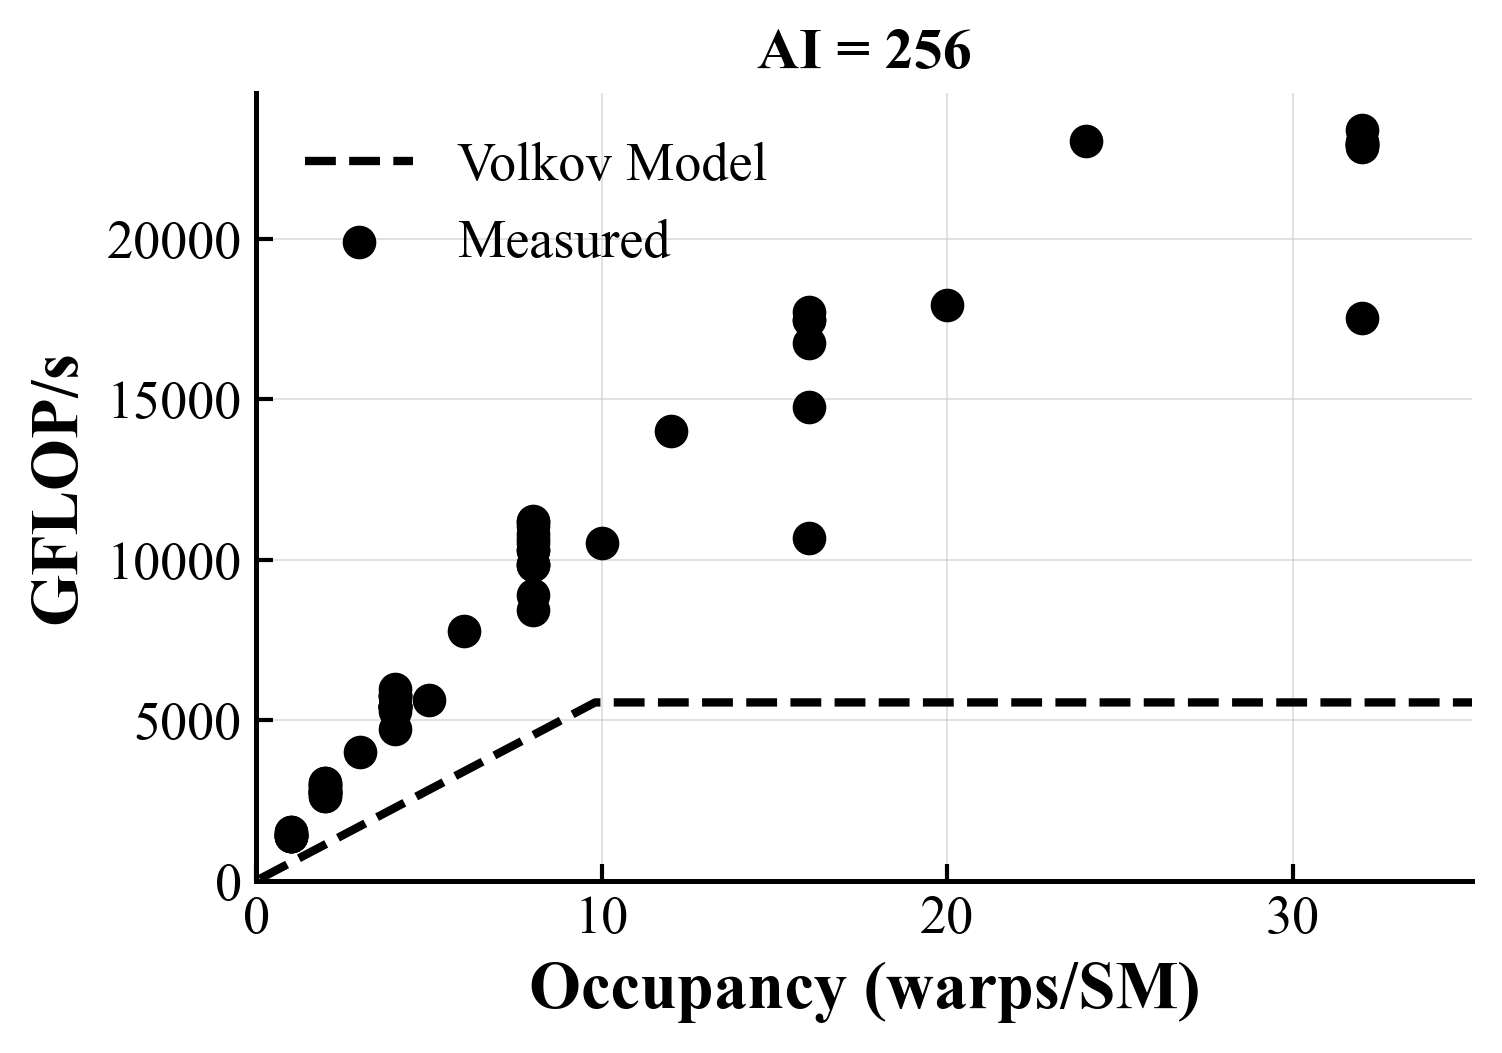
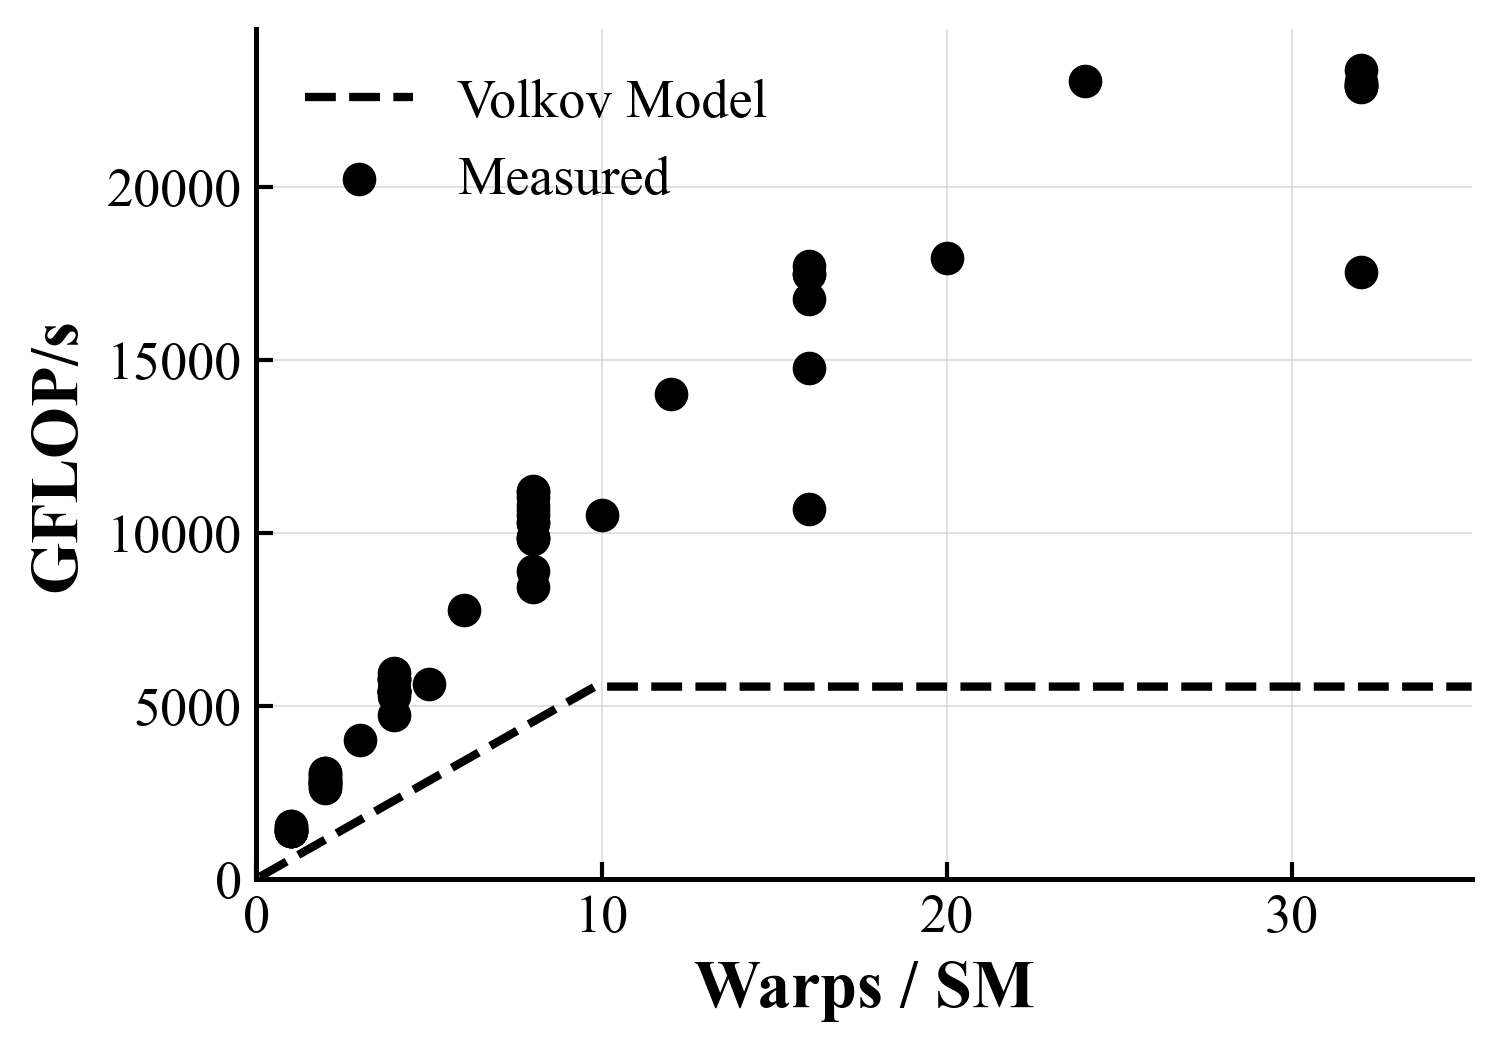
update.

diff --git a/Images/merge.py b/Images/merge.py
@@ -1,0 +1,58 @@
+import os
+from PIL import Image
+
+ais = [1, 2, 4, 8, 16, 32, 64, 128, 256, 512]
+archs = ['RTX5000', 'A100', 'H100']
+
+# Determine paths for each architecture based on the naming convention found
+# e.g., Results/A100/synthetic_streaming/synthetic_kernel_a2_a100.png
+# Results/H100/synthetic_streaming/synthetic_kernel_a2_h100.png
+# Results/RTX5000/synthetic_streaming/volkov_rtx5000_a2.png
+
+def get_image_path(arch, ai):
+    base_dir = os.path.join('Results', arch, 'synthetic_streaming')
+    if arch == 'A100':
+        return os.path.join(base_dir, f'synthetic_kernel_a{ai}_a100.png')
+    elif arch == 'H100':
+        return os.path.join(base_dir, f'synthetic_kernel_a{ai}_h100.png')
+    elif arch == 'RTX5000':
+        return os.path.join(base_dir, f'volkov_rtx5000_a{ai}.png')
+    return None
+
+os.makedirs('Images', exist_ok=True)
+
+for ai in ais:
+    images = []
+    missing_any = False
+    for arch in archs:
+        path = get_image_path(arch, ai)
+        if path and os.path.exists(path):
+            try:
+                img = Image.open(path)
+                images.append(img)
+            except Exception as e:
+                print(f"Error opening {path}: {e}")
+                missing_any = True
+        else:
+            print(f"Missing image for AI={ai}, Arch={arch} at {path}")
+            missing_any = True
+            
+    if len(images) == 3 and not missing_any:
+        # Assuming all images have same height
+        widths, heights = zip(*(i.size for i in images))
+        
+        total_width = sum(widths)
+        max_height = max(heights)
+        
+        new_im = Image.new('RGB', (total_width, max_height), color='white')
+        
+        x_offset = 0
+        for im in images:
+            new_im.paste(im, (x_offset, 0))
+            x_offset += im.size[0]
+            
+        out_path = os.path.join('Images', f'ai{ai}_row_merged.png')
+        new_im.save(out_path)
+        print(f"Successfully merged {out_path}")
+    else:
+        print(f"Failed to merge for AI={ai} due to missing images.")

diff --git a/Results/RTX5000/synthetic_streaming/plot.py b/Results/RTX5000/synthetic_streaming/plot.py
@@ -59,9 +59,9 @@ def generate_plot(df, arith_intensity, output_path):
                marker='o', s=50, color='black', facecolors='black',
                label='Measured', zorder=3)
 
-    ax.set_xlabel("Occupancy (warps/SM)", fontweight='bold')
+    ax.set_xlabel("Warps / SM", fontweight='bold')
     ax.set_ylabel("GFLOP/s", fontweight='bold')
-    ax.set_title(f"AI = {arith_intensity}", fontsize=14, fontweight='bold')
+
     ax.set_xlim(left=0, right=max_occ * 1.1)
     ax.set_ylim(bottom=0)
 
@@ -76,7 +76,7 @@ def generate_plot(df, arith_intensity, output_path):
     fig.tight_layout(pad=0.5)
     plt.savefig(output_path, bbox_inches="tight", dpi=300)
     plt.close()
-    print(f"✅ Saved: {output_path}")
+    print(f"Saved: {output_path}")
 
 
 def batch_generate():
@@ -93,7 +93,7 @@ def batch_generate():
         out = f"volkov_rtx5000_a{ai}.png"
         generate_plot(df, ai, out)
         generated += 1
-    print(f"\n✅ Generated {generated} plots for RTX 5000.")
+    print(f"\nGenerated {generated} plots for RTX 5000.")
 
 
 if __name__ == "__main__":
